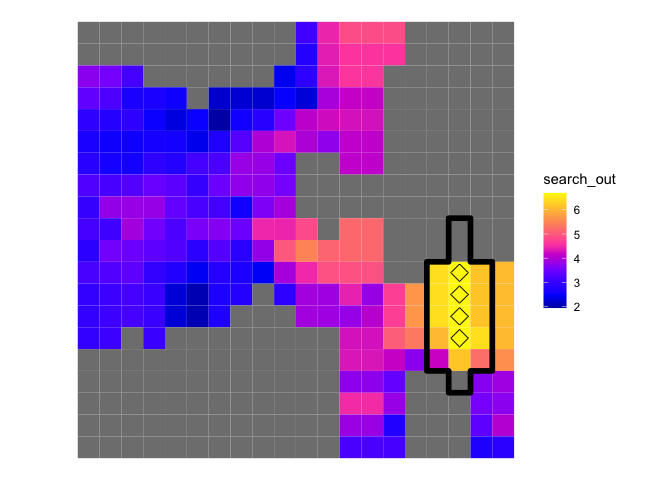
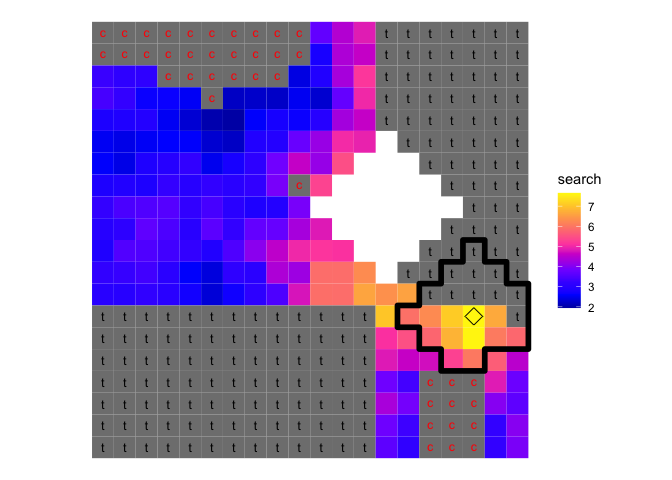
added verbose output feature to patchmax
updated plot function; reports search results to help diagnose situations where search returns no or fewer options

diff --git a/README.md b/README.md
@@ -79,7 +79,7 @@ pm <- patchmax$new(
   id_field = 'id', 
   objective_field = 'p4', 
   area_field = 'ha', 
-  area_max = 1000)
+  area_max = 2500)
 ```
 
 The core purpose of patchmax is build spatially contiguous patches that
@@ -90,7 +90,6 @@ searches for the best place, (2) builds that patch, (3) plots the patch,
 
 ``` r
 pm$search()
-pm$build()
 pm$record()
 pm$plot()
 ```
@@ -110,7 +109,7 @@ objective score of a patch if it were built from that location. In this
 sense, patchmax works similar to a moving window spatial analysis
 
 ``` r
-pm$search(search_plot = T)
+pm$search(plot = T)
 ```
 
 ![](man/figures/search_example-1.png)<!-- -->
@@ -121,7 +120,7 @@ due to the new treatment threshold.
 
 ``` r
 pm$threshold = 't1 == 1'
-pm$search(search_plot = T)
+pm$search(plot = T)
 ```
 
 ![](man/figures/unnamed-chunk-6-1.png)<!-- -->
@@ -137,7 +136,7 @@ scores.
 ``` r
 pm$constraint_field = 'cost'
 pm$constraint_max = 15000
-pm$search(search_plot = T)
+pm$search(plot = T, verbose =T)
 ```
 
 ![](man/figures/unnamed-chunk-7-1.png)<!-- -->
@@ -148,7 +147,7 @@ viable patches exist.
 
 ``` r
 pm$area_min = 500
-pm$search(search_plot = T)
+pm$search(plot = T)
 ```
 
 ![](man/figures/unnamed-chunk-8-1.png)<!-- -->
@@ -170,16 +169,16 @@ pm$patch_stats
 ```
 
     ##    patch_id seed area coverage objective constraint excluded
-    ## 1         1 2933  800     1000       6.7      14200       20
-    ## 2         2 3438 1000     1000       6.7      12420        0
-    ## 3         3 2432 1000     1000       5.1      14430        0
-    ## 4         4 2033  900     1200       4.8      14890       25
-    ## 5         5 3733  800     1200       4.5      14390       33
-    ## 6         6 3030  900      900       4.3      14940        0
-    ## 7         7 3235  900     1400       4.1      14370       36
+    ## 1         1 3033 1200     1800       7.8      14230       33
+    ## 2         2 3338 1300     2200       7.7      14380       41
+    ## 3         3 2233 1100     1700       5.2      14920       35
+    ## 4         4 2632  800      800       5.1      13520        0
+    ## 5         5 3129 1600     1700       4.4      14570        6
+    ## 6         6 3734  800     1200       4.3      13270       33
+    ## 7         7 2630  700      700       4.2      14770        0
     ## 8         8 3840  800      800       4.0      13850        0
-    ## 9         9 2529  700      700       4.0      14640        0
-    ## 10       10 2923  600      600       3.9      14300        0
+    ## 9         9 2923  600      600       3.6      14080        0
+    ## 10       10 2926  800      800       3.6      14810        0
 
 ## Getting help
 
